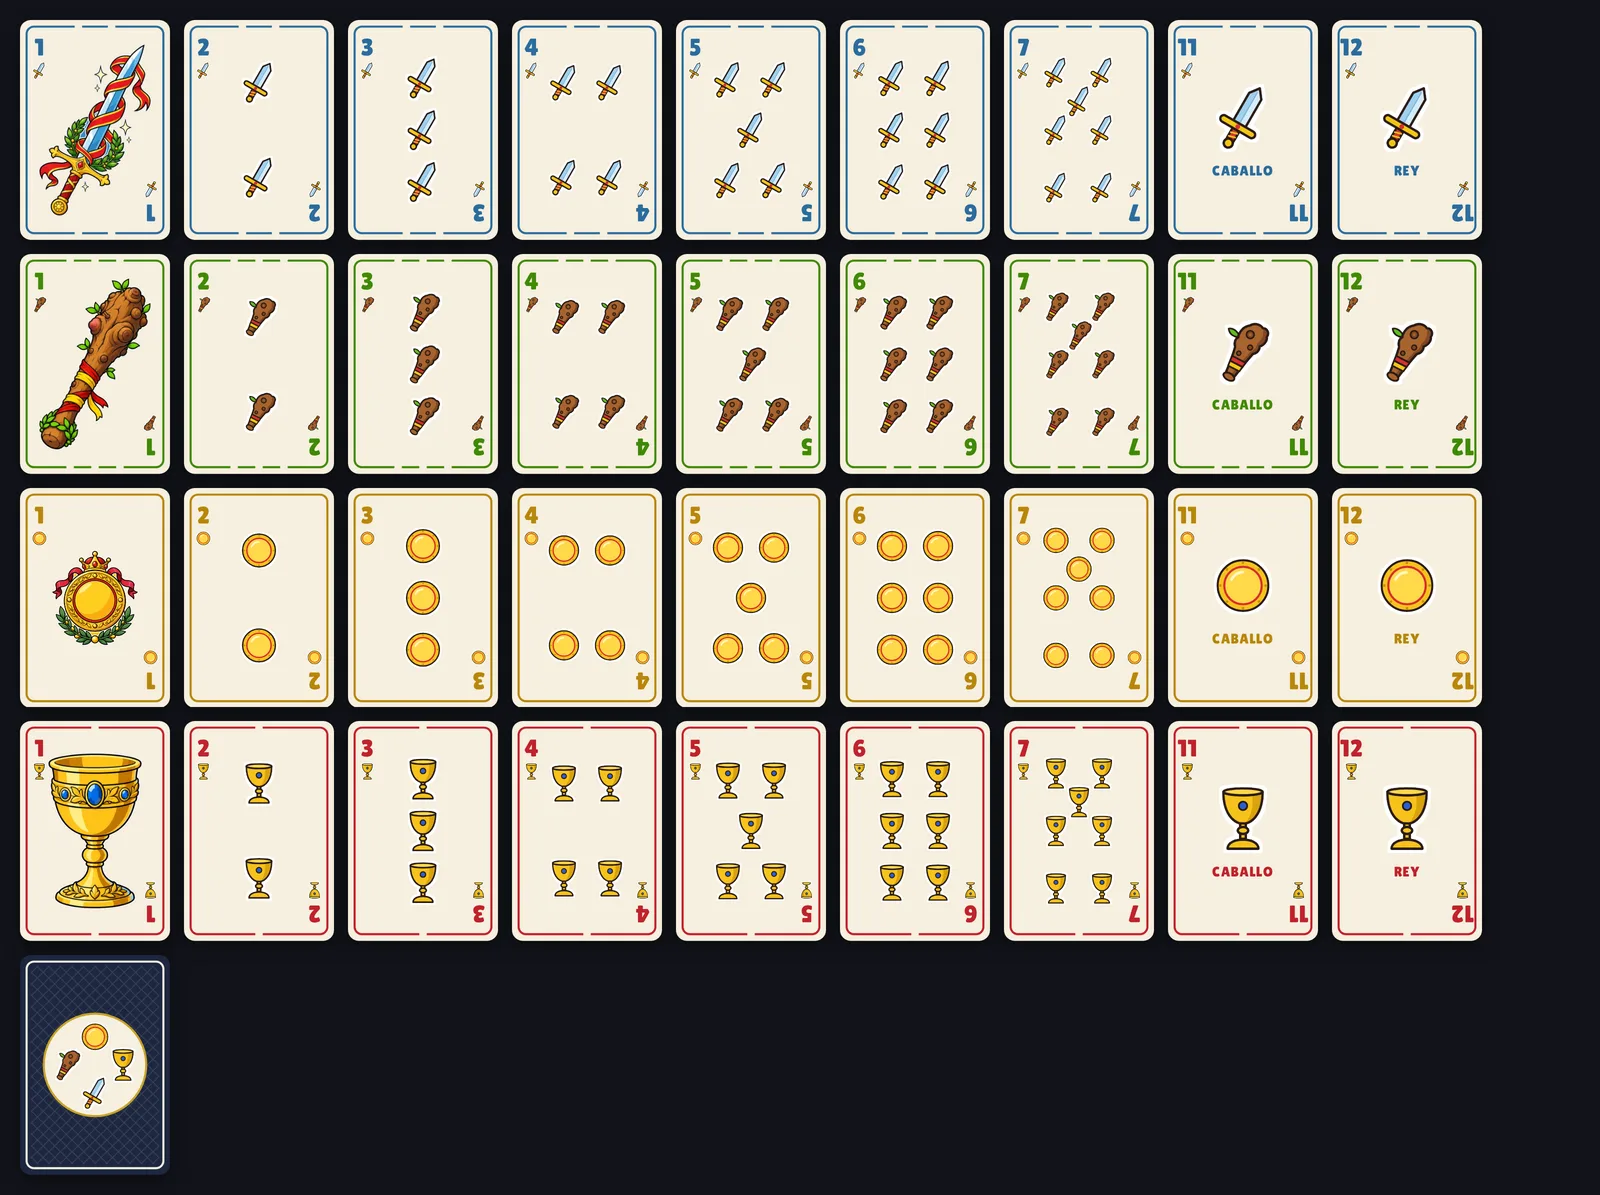
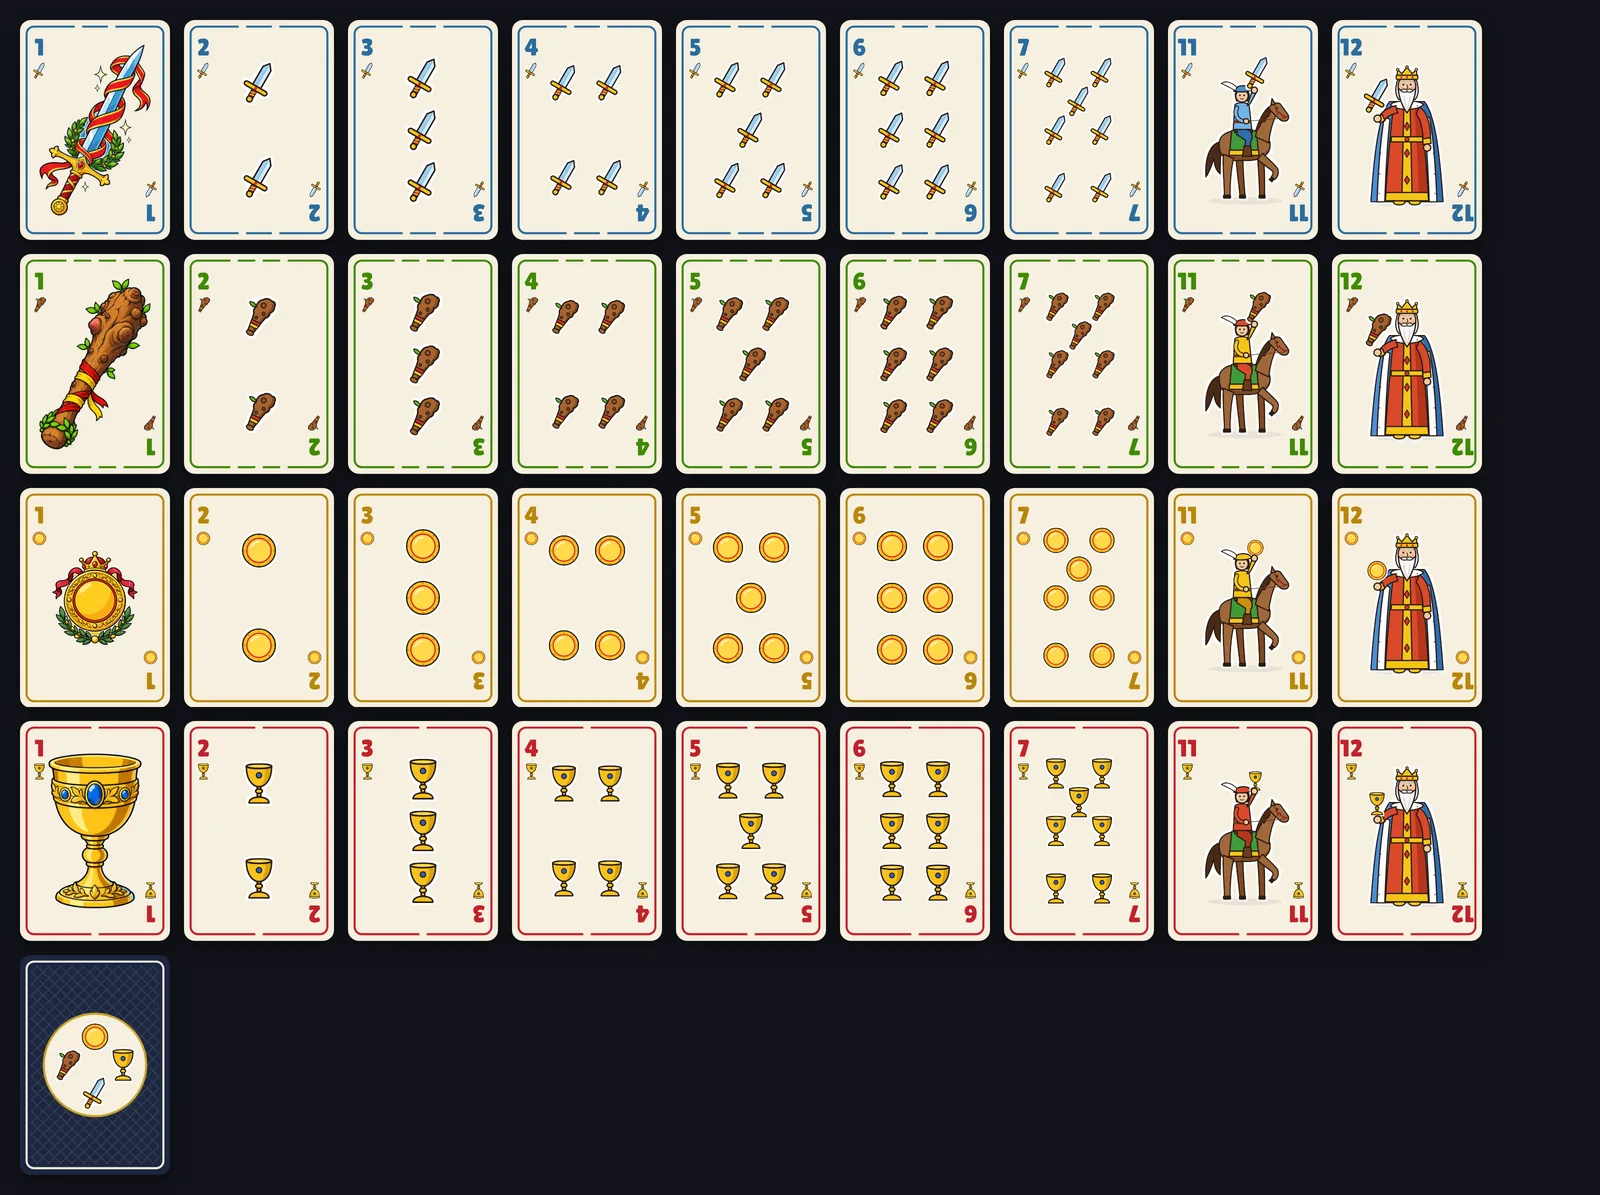
Truco: caballos y reyes dibujados en SVG
Rey anciano con corona, túnica roja y capa con armiño; caballo con jinete de
gorro con pluma y ropa del color del palo. Cada uno sostiene el objeto de su
palo. Si después hay arte generado, entra por ARTE y tiene prioridad.

diff --git a/src/components/TrucoCard.tsx b/src/components/TrucoCard.tsx
@@ -24,8 +24,6 @@ const ARTE = new Set(["1-espada", "1-basto", "1-oro", "1-copa"]);
 // El oro es casi cuadrado: sin esto se ve más grande que los demás
 const ESCALA_ARTE: Partial<Record<Palo, number>> = { oro: 0.84, espada: 1.1, basto: 1.1 };
 
-const FIGURA: Record<number, string> = { 11: "CABALLO", 12: "REY" };
-
 const line = { stroke: TINTA, strokeWidth: 3.5, strokeLinejoin: "round", strokeLinecap: "round" } as const;
 
 // Cada palo en una caja de 100×100, parado, con el mismo trazo oscuro que el arte de los ases
@@ -160,6 +158,154 @@ function Indice({ num, palo }: { num: number; palo: Palo }) {
   );
 }
 
+const PIEL = "#f2c9a0";
+const ORO = "#f5c518";
+const fino = { ...line, strokeWidth: 2.4 } as const;
+// Manchas del armiño
+const Armino = ({ pts }: { pts: [number, number][] }) => (
+  <>
+    {pts.map(([x, y]) => (
+      <path key={`${x}-${y}`} d={`M${x} ${y} l-1.6 3.4 l1.6 -1 l1.6 1 Z`} fill={TINTA} />
+    ))}
+  </>
+);
+
+// Rey (12) de la baraja española: anciano de barba, corona, túnica roja y capa azul con armiño.
+// Dibujado en una caja de 200×300; el objeto del palo va en la mano levantada.
+function Rey({ palo }: { palo: Palo }) {
+  return (
+    <g transform={`translate(${(W - 250) / 2} ${(H - 375) / 2 + 4}) scale(1.25)`}>
+      <g filter="url(#tc-sticker)">
+        <ellipse cx="100" cy="289" rx="64" ry="7" fill="#000" opacity="0.12" />
+        {/* capa */}
+        <path d="M66 92 C44 120 36 200 30 286 L170 286 C164 200 156 120 134 92 Z" fill="#4a8fd6" />
+        <path d="M134 92 C156 120 164 200 170 286 L150 286 C148 200 146 130 128 96 Z" fill="#2f6db3" />
+        <path d="M66 92 C44 120 36 200 30 286 L170 286 C164 200 156 120 134 92 Z" fill="none" {...fino} />
+        <path d="M56 122 C48 170 44 230 42 286 L57 286 C59 230 62 170 67 126 Z" fill="#fff" {...fino} />
+        <path d="M144 122 C152 170 156 230 158 286 L143 286 C141 230 138 170 133 126 Z" fill="#fff" {...fino} />
+        <Armino pts={[[52, 150], [49, 190], [47, 230], [46, 268], [148, 150], [151, 190], [153, 230], [154, 268]]} />
+        <ellipse cx="85" cy="287" rx="11" ry="5" fill={ORO} {...fino} />
+        <ellipse cx="115" cy="287" rx="11" ry="5" fill={ORO} {...fino} />
+        {/* túnica */}
+        <path d="M74 98 L126 98 C132 150 138 220 142 284 L58 284 C62 220 68 150 74 98 Z" fill="#d9482b" />
+        <path d="M113 98 L126 98 C132 150 138 220 142 284 L123 284 C121 220 119 150 113 98 Z" fill="#b5361f" />
+        <path d="M74 98 L126 98 C132 150 138 220 142 284 L58 284 C62 220 68 150 74 98 Z" fill="none" {...fino} />
+        <path d="M94 100 L106 100 L110 284 L90 284 Z" fill={ORO} {...fino} />
+        {[140, 192, 244].map((y) => (
+          <path key={y} d={`M100 ${y - 8} L105 ${y} L100 ${y + 8} L95 ${y} Z`} fill="#d62f2f" {...fino} strokeWidth={1.6} />
+        ))}
+        <path d="M59.5 268 L140.5 268 L142 284 L58 284 Z" fill={ORO} {...fino} />
+        <path d="M70 160 L130 160 L131 170 L69 170 Z" fill={ORO} {...fino} />
+        <circle cx="100" cy="165" r="4" fill="#d62f2f" {...fino} strokeWidth={1.6} />
+        {/* brazo apoyado */}
+        <path d="M124 102 C140 112 147 140 145 168 L131 170 C131 148 127 128 118 116 Z" fill="#d9482b" {...fino} />
+        <path d="M130.5 164 L145.5 162 L146.5 173 L131 175 Z" fill={ORO} {...fino} />
+        <circle cx="139" cy="181" r="7" fill={PIEL} {...fino} />
+        {/* cuello de armiño */}
+        <path d="M68 98 C78 110 122 110 132 98 C126 88 74 88 68 98 Z" fill="#fff" {...fino} />
+        <Armino pts={[[80, 98], [92, 101], [108, 101], [120, 98]]} />
+        {/* cabeza */}
+        <path d="M80 58 C78 40 122 40 120 58 C124 70 121 82 116 88 L84 88 C79 82 76 70 80 58 Z" fill="#ececec" {...fino} />
+        <ellipse cx="100" cy="62" rx="17" ry="20" fill={PIEL} {...fino} />
+        <circle cx="90" cy="66" r="3.5" fill="#e8907a" opacity="0.45" />
+        <circle cx="110" cy="66" r="3.5" fill="#e8907a" opacity="0.45" />
+        <path d="M83 66 C84 82 89 98 100 114 C111 98 116 82 117 66 C110 75 90 75 83 66 Z" fill="#f7f7f7" {...fino} />
+        <path d="M94 82 C95 92 97 100 100 108 M106 82 C105 92 103 100 100 108" fill="none" stroke="#c9c9c9" strokeWidth="1.5" />
+        <path d="M88 71 C93 66 97 67 100 70 C103 67 107 66 112 71 C107 75 103 74 100 72.5 C97 74 93 75 88 71 Z" fill="#f7f7f7" {...fino} strokeWidth={1.8} />
+        <path d="M100 60 Q103.5 65 99 67" fill="none" stroke={TINTA} strokeWidth="1.6" strokeLinecap="round" />
+        <circle cx="93" cy="59" r="1.9" fill={TINTA} />
+        <circle cx="107" cy="59" r="1.9" fill={TINTA} />
+        <path d="M88 54 Q93 50.5 97 54 M103 54 Q107 50.5 112 54" fill="none" stroke="#bdbdbd" strokeWidth="3" strokeLinecap="round" />
+        {/* corona */}
+        <path d="M80 46 L82 30 L90 38 L100 25 L110 38 L118 30 L120 46 Z" fill={ORO} {...fino} />
+        <rect x="79" y="41" width="42" height="8" rx="2" fill={ORO} {...fino} />
+        {[89, 100, 111].map((x) => (
+          <circle key={x} cx={x} cy="45" r="2.2" fill="#d62f2f" />
+        ))}
+        {[[82, 30], [100, 25], [118, 30]].map(([x, y]) => (
+          <circle key={x} cx={x} cy={y} r="2.6" fill={ORO} {...fino} strokeWidth={1.6} />
+        ))}
+        {/* brazo levantado con el palo */}
+        <path d="M78 100 C62 104 50 112 44 124 L54 132 C60 122 68 116 82 114 Z" fill="#d9482b" {...fino} />
+        <path d="M42 121 L52 117 L57.5 128.5 L47.5 133.5 Z" fill={ORO} {...fino} />
+      </g>
+      <Pip palo={palo} cx={42} cy={palo === "espada" || palo === "basto" ? 80 : 94} s={palo === "espada" || palo === "basto" ? 76 : 50} />
+      <circle cx="43" cy="125" r="7" fill={PIEL} {...fino} />
+    </g>
+  );
+}
+
+// Ropa del jinete según el palo, como en la baraja clásica
+const JINETE: Record<Palo, { tunica: string; gorro: string; calza: string }> = {
+  oro: { tunica: ORO, gorro: ORO, calza: "#c98f0a" },
+  copa: { tunica: "#d9482b", gorro: "#d9482b", calza: "#b5361f" },
+  espada: { tunica: "#6fb3e8", gorro: "#4a8fd6", calza: "#2f6db3" },
+  basto: { tunica: ORO, gorro: "#d9482b", calza: "#d9482b" },
+};
+const PELO = "#a0673a";
+const PELO_OSC = "#7f4a24";
+const CRIN = "#4a2a14";
+
+// Caballo (11): jinete con gorro de pluma sobre un caballo que levanta una mano, objeto del palo en alto
+function Caballo({ palo }: { palo: Palo }) {
+  const j = JINETE[palo];
+  const largo = palo === "espada" || palo === "basto";
+  return (
+    <g transform={`translate(${(W - 250) / 2} ${(H - 375) / 2 + 4}) scale(1.25)`}>
+      <g filter="url(#tc-sticker)">
+        <ellipse cx="104" cy="284" rx="72" ry="7" fill="#000" opacity="0.12" />
+        {/* cola y patas de atrás del lado lejano */}
+        <path d="M56 170 C36 174 26 200 28 238 C36 228 40 212 44 202 C44 216 48 226 56 232 C56 212 56 192 60 180 Z" fill={CRIN} {...fino} />
+        <path d="M86 198 C88 226 92 252 94 274 L104 274 C102 250 100 222 100 202 Z" fill={PELO_OSC} {...fino} />
+        <rect x="92" y="272" width="14" height="8" rx="2" fill={TINTA} />
+        <path d="M128 198 C130 226 132 252 132 274 L142 274 C142 250 142 224 140 196 Z" fill={PELO_OSC} {...fino} />
+        <rect x="130" y="272" width="14" height="8" rx="2" fill={TINTA} />
+        {/* cuerpo */}
+        <path d="M54 176 C52 156 72 146 100 148 C128 148 148 154 152 170 C156 190 142 204 114 206 L80 206 C62 204 54 194 54 176 Z" fill={PELO} />
+        <path d="M60 190 C70 202 90 206 114 206 C138 204 152 192 152 178 C146 196 120 200 96 199 C80 198 68 196 60 190 Z" fill={PELO_OSC} />
+        <path d="M54 176 C52 156 72 146 100 148 C128 148 148 154 152 170 C156 190 142 204 114 206 L80 206 C62 204 54 194 54 176 Z" fill="none" {...fino} />
+        {/* patas del lado cercano: una apoyada atrás, una mano levantada adelante */}
+        <path d="M62 194 C60 220 64 250 64 274 L75 274 C75 250 77 222 82 202 Z" fill={PELO} {...fino} />
+        <rect x="61" y="272" width="16" height="8" rx="2" fill={TINTA} />
+        <path d="M138 192 C150 204 160 212 166 220 C171 228 168 238 161 243 L155 237 C159 233 159 228 155 225 C147 219 138 212 128 204 Z" fill={PELO} {...fino} />
+        <path d="M155 237 L161 243 L156 249 L149 243 Z" fill={TINTA} />
+        {/* manta y montura */}
+        <path d="M78 148 L126 148 L130 192 L74 192 Z" fill="#3f9b3a" {...fino} />
+        <path d="M74 186 L130 186 L131 196 L73 196 Z" fill={ORO} {...fino} />
+        <path d="M84 146 C90 140 112 140 118 146 L118 152 L84 152 Z" fill="#8a2a1c" {...fino} />
+        {/* cuello, crin y cabeza */}
+        <path d="M124 160 C128 140 136 120 148 106 L166 114 C158 130 152 150 150 172 Z" fill={PELO} {...fino} />
+        <path d="M150 102 C140 110 130 128 124 150 C130 146 134 138 138 128 C140 136 144 130 146 120 C148 126 152 118 154 108 Z" fill={CRIN} {...fino} strokeWidth={1.8} />
+        <path d="M150 106 C153 96 164 92 172 96 L187 117 C191 123 187 130 180 130 C174 130 170 126 166 122 L159 115 Z" fill={PELO} {...fino} />
+        <path d="M154 99 L156 86 L163 97 Z" fill={PELO} {...fino} />
+        <circle cx="166" cy="105" r="2.2" fill={TINTA} />
+        <circle cx="181" cy="122" r="1.5" fill={TINTA} />
+        <path d="M162 101 L168 116 M170 112 C175 119 180 123 186 121" fill="none" stroke="#8a2a1c" strokeWidth="2.6" strokeLinecap="round" />
+        {/* jinete: pierna, torso, cabeza */}
+        <path d="M90 140 L112 148 C119 154 119 163 115 169 L113 190 L103 190 L105 167 L88 156 Z" fill={j.calza} {...fino} />
+        <path d="M102 178 L115 178 L117 198 L99 198 Z" fill="#6b3b1b" {...fino} />
+        <path d="M84 100 C84 92 112 92 112 100 L117 146 L81 146 Z" fill={j.tunica} {...fino} />
+        <path d="M82 128 L116 128 L116.5 134 L81.5 134 Z" fill="#6b3b1b" />
+        <path d="M88 104 C82 118 90 130 104 130" fill="none" stroke={TINTA} strokeWidth="9" strokeLinecap="round" />
+        <path d="M88 104 C82 118 90 130 104 130" fill="none" stroke={j.tunica} strokeWidth="5.5" strokeLinecap="round" />
+        <path d="M106 130 L180 124" stroke="#6b3b1b" strokeWidth="1.6" />
+        <circle cx="106" cy="130" r="5" fill={PIEL} {...fino} />
+        <path d="M85 79 C84 66 112 64 112 79 C112 85 110 89 108 91 L88 91 C86 87 85 83 85 79 Z" fill="#7a4a22" {...fino} />
+        <circle cx="98" cy="81" r="12" fill={PIEL} {...fino} />
+        <circle cx="94" cy="80" r="1.7" fill={TINTA} />
+        <circle cx="102" cy="80" r="1.7" fill={TINTA} />
+        <path d="M95 86 Q98 88.5 101 86" fill="none" stroke={TINTA} strokeWidth="1.5" strokeLinecap="round" />
+        <path d="M82 72 C84 59 112 57 117 69 C109 74 92 74 82 72 Z" fill={j.gorro} {...fino} />
+        <path d="M88 64 C76 52 64 52 58 57 C66 60 76 66 86 71 Z" fill="#fff" {...fino} strokeWidth={1.8} />
+        {/* brazo en alto con el palo */}
+        <path d="M108 100 L114 96 L126 74 L118 70 Z" fill={j.tunica} {...fino} />
+      </g>
+      <Pip palo={palo} cx={largo ? 128 : 124} cy={largo ? 36 : 50} s={largo ? 70 : 42} />
+      <circle cx="122" cy="70" r="6" fill={PIEL} {...fino} />
+    </g>
+  );
+}
+
 function Centro({ id, num, palo }: { id: string; num: number; palo: Palo }) {
   if (ARTE.has(id)) {
     const k = ESCALA_ARTE[palo] ?? 1;
@@ -167,17 +313,9 @@ function Centro({ id, num, palo }: { id: string; num: number; palo: Palo }) {
     const h = 380 * k;
     return <image href={`/truco/${id}.webp`} x={(W - w) / 2} y={(H - h) / 2} width={w} height={h} preserveAspectRatio="xMidYMid meet" />;
   }
-  // ponytail: caballos y reyes provisorios (palo grande + nombre) hasta tener su arte
-  if (FIGURA[num]) {
-    return (
-      <>
-        <Pip palo={palo} cx={W / 2} cy={H / 2 - 30} s={170} />
-        <text x={W / 2} y={H / 2 + 110} textAnchor="middle" fontFamily="'Lilita One', system-ui, sans-serif" fontSize="34" letterSpacing="2" fill={PALO[palo].color}>
-          {FIGURA[num]}
-        </text>
-      </>
-    );
-  }
+  // Figuras dibujadas en SVG; si algún día hay arte generado, entra por ARTE y tiene prioridad
+  if (num === 12) return <Rey palo={palo} />;
+  if (num === 11) return <Caballo palo={palo} />;
   const s = num <= 3 ? 110 : num === 7 ? 82 : 98;
   return (
     <>

diff --git a/truco/README.md b/truco/README.md
@@ -14,7 +14,7 @@ Truco argentino para ChainTable. Usa la misma plataforma que el UNO (mesas, sesi
 | Ruta | Qué hay |
 |---|---|
 | [`engine/`](engine/) | Motor del juego: módulo puro (sin sockets ni relojes) con `createMatch`, `act`, `timeout`, `nextHand` y `view`. Tests: `npm run test:truco`. |
-| [`src/components/TrucoCard.tsx`](../src/components/TrucoCard.tsx) | El mazo: naipe crema con marco del color del palo y los cortes de la pinta. Del 2 al 7 se dibuja en SVG; los ases (y después caballos y reyes) usan el arte de [`public/truco/`](../public/truco/). Vista previa: [`docs/mazo.webp`](docs/mazo.webp). |
+| [`src/components/TrucoCard.tsx`](../src/components/TrucoCard.tsx) | El mazo: naipe crema con marco del color del palo y los cortes de la pinta. Del 2 al 7, los caballos (11) y los reyes (12) se dibujan en SVG; los ases usan el arte de [`public/truco/`](../public/truco/). Vista previa: [`docs/mazo.webp`](docs/mazo.webp). |
 | [`docs/reglas.md`](docs/reglas.md) | Reglas completas para implementar: jerarquía, envido, bazas y pardas, cantos y puntos, equipos y pica-pica, máquina de estados de la mano, defaults recomendados y riesgo legal de las mesas pagas. |
 | [`docs/prompts-cartas.md`](docs/prompts-cartas.md) | Los 16 prompts para generar el mazo, ya armados para copiar y pegar. |
 | [`docs/investigacion/`](docs/investigacion/) | Notas de investigación con las fuentes de cada regla. |
